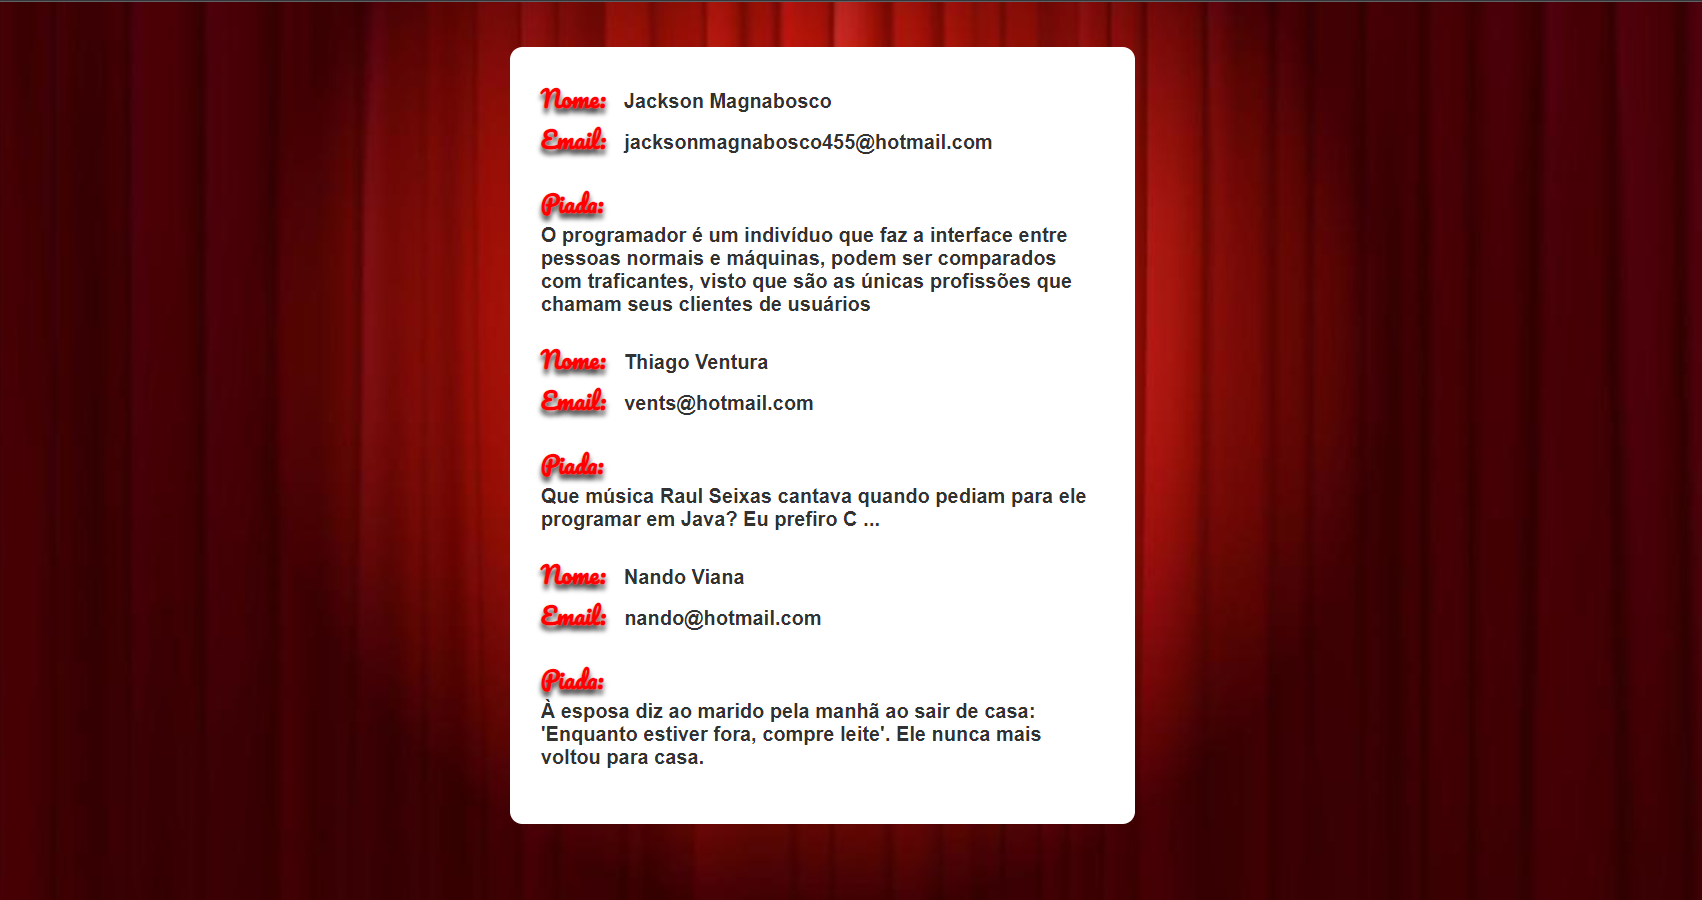
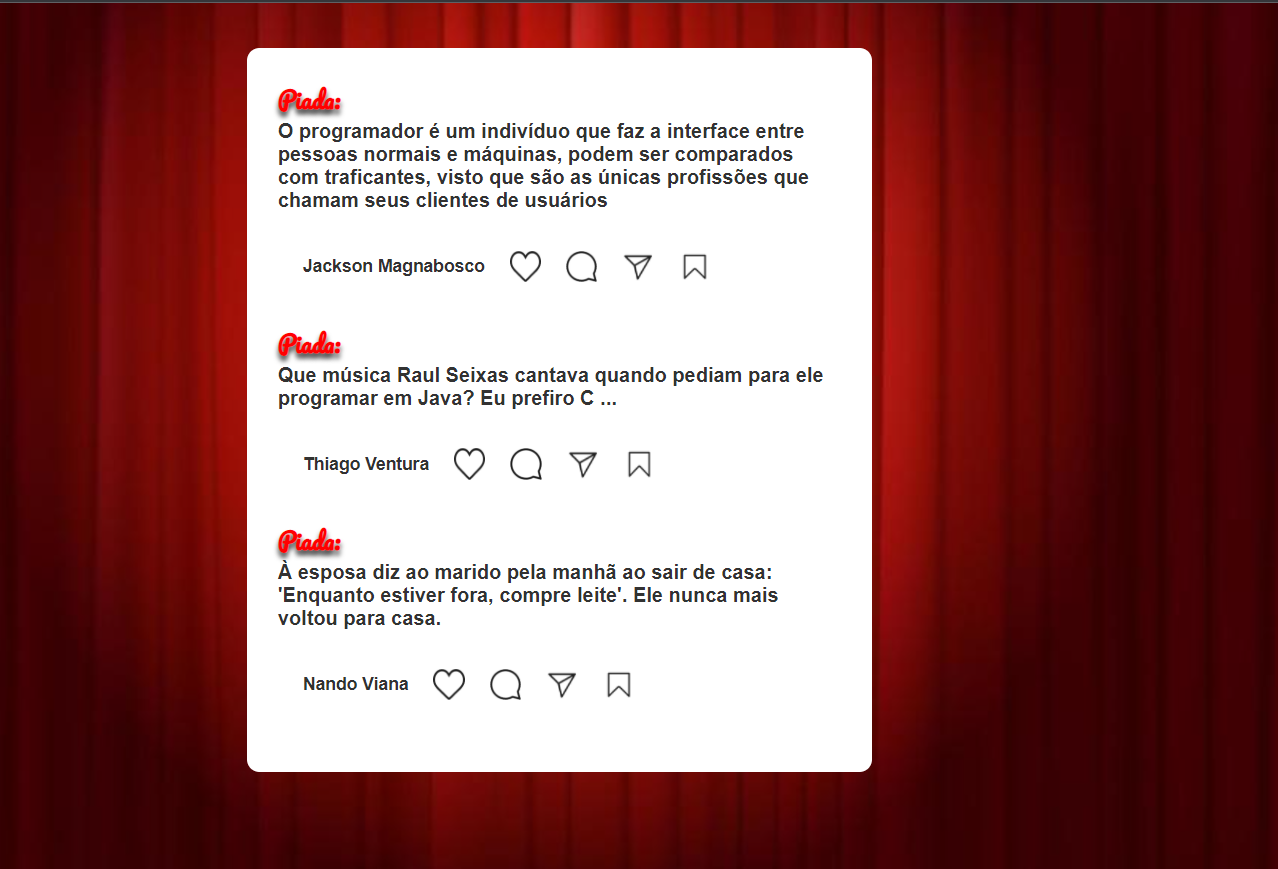
att

diff --git a/public/stylesheets/piada.css b/public/stylesheets/piada.css
@@ -1,4 +1,8 @@
 /* geral */
+
+@import url('https://fonts.googleapis.com/css2?family=Roboto:wght@300;400;500;700;900&display=swap');
+
+
 * {
   margin: 0;
   padding: 0;
@@ -121,4 +125,134 @@ input[type="submit"] {
 .principal-texto{
   display: inline-block;
   margin-right: 10px;
+}
+
+.post{
+  width: 100%;
+  height: auto;
+  background: #fff;
+  border: 1px solid #dfdfdf;
+  margin-top: 40px;
+}
+
+.info{
+  width: 100%;
+  height: 60px;
+  display: flex;
+  justify-content: space-between;
+  align-items: center;
+  padding: 0 20px;
+}
+
+.info .username{
+  width: auto;
+  font-weight: bold;
+  color: #000;
+  font-size: 14px;
+  margin-left: 10px;
+}
+
+.info .options{
+  height: 10px;
+  cursor: pointer;
+}
+
+.info .user{
+  display: flex;
+  align-items: center;
+}
+
+.info .profile-pic{
+  height: 40px;
+  width: 40px;
+  padding: 0;
+  background: none;
+}
+
+.info .profile-pic img{
+  border: none;
+}
+
+.post-image{
+  width: 100%;
+  height: 500px;
+  object-fit: cover;
+}
+
+.post-content{
+  width: 100%;
+  padding: 20px;
+}
+
+.likes{
+  font-weight: bold;
+}
+
+.description{
+  margin: 10px 0;
+  margin-right: 20px;
+  font-size: 14px;
+  line-height: 20px;
+}
+
+.description span{
+  font-weight: bold;
+  margin-right: 10px;
+}
+
+.post-time{
+  color: rgba(0, 0, 0, 0.5);
+  font-size: 12px;
+}
+
+.comment-wrapper{
+  width: 100%;
+  height: 50px;
+  border-radius: 1px solid #dfdfdf;
+  display: flex;
+  justify-content: space-between;
+  align-items: center;
+}
+
+.comment-wrapper .icon{
+  height: 30px;
+}
+
+.comment-box{
+  width: 80%;
+  height: 100%;
+  border: none;
+  outline: none;
+  font-size: 14px;
+}
+
+.comment-btn,
+.action-btn{
+  width: 70px;
+  height: 100%;
+  background: none;
+  border: none;
+  outline: none;
+  text-transform: capitalize;
+  font-size: 16px;
+  color: rgb(0, 162, 255);
+  opacity: 0.5;
+}
+
+.reaction-wrapper{
+  width: 100%;
+  height: 50px;
+  display: flex;
+  margin-top: -20px;
+  align-items: center;
+}
+
+.reaction-wrapper .icon{
+  height: 25px;
+  margin: 0;
+  margin-right: 20px;
+}
+
+.reaction-wrapper .icon.save{
+  margin-left: auto;
 }

diff --git a/config/routes.js b/config/routes.js
@@ -98,4 +98,8 @@ routes.post("/jokes/create", async (req, res) => {
   }
 });
 
+routes.use(function(req, res, next) {
+  res.status(404).send(res.render("error"));
+});
+
 module.exports = routes;
